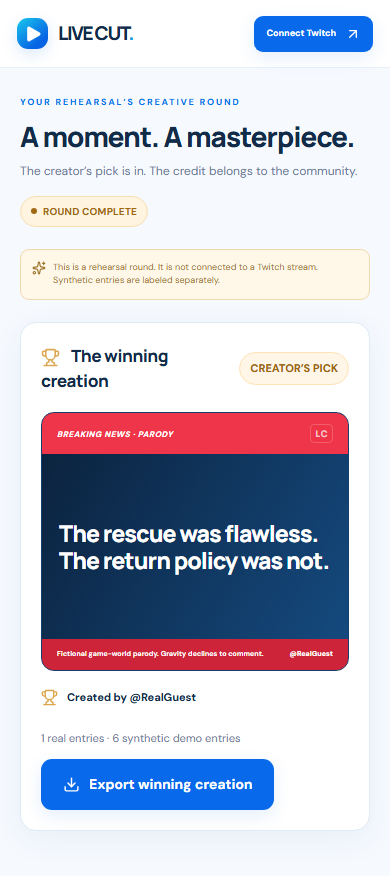
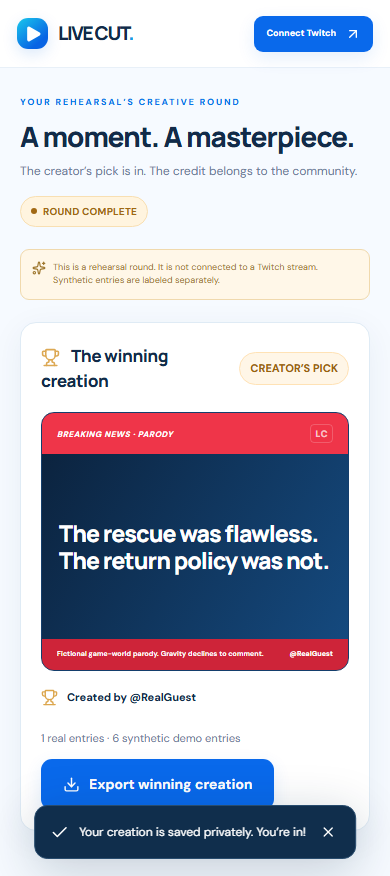
Harden video delivery, privacy, and browser reconnection

Changed region(s): [[0.0615, 0.8938, 0.9231, 1.0]]

diff --git a/tests/e2e/upload.spec.ts b/tests/e2e/upload.spec.ts
@@ -1,0 +1,94 @@
+import { test, expect } from "@playwright/test";
+import fs from "node:fs";
+test("local video upload validates type, persists bytes and serves ranges", async ({
+  page,
+}) => {
+  await page.request.get("/api/me");
+  await page.goto("/");
+  await page.getByRole("button", { name: "Try a rehearsal" }).click();
+  await expect(
+    page.getByRole("heading", { name: "Your show, upgraded." }),
+  ).toBeVisible();
+  const invalid = await page.request.post("/api/upload", {
+    headers: { Origin: "http://localhost:5173", "Content-Type": "video/mp4" },
+    data: Buffer.from("not-a-valid-media-file"),
+  });
+  expect(invalid.status()).toBe(400);
+  const file = ".local/skyfall-gameplay.webm";
+  let bytes: Buffer;
+  if (fs.existsSync(file)) bytes = fs.readFileSync(file);
+  else {
+    await page.goto("/game");
+    await page.locator("canvas").waitFor();
+    const encoded = await page.evaluate(async () => {
+      const stream = document.querySelector("canvas")!.captureStream(20);
+      const recorder = new MediaRecorder(stream, { mimeType: "video/webm" });
+      const parts: Blob[] = [];
+      recorder.ondataavailable = (e) => parts.push(e.data);
+      const done = new Promise<void>((resolve) => {
+        recorder.onstop = () => resolve();
+      });
+      recorder.start();
+      await new Promise((resolve) => setTimeout(resolve, 500));
+      recorder.stop();
+      await done;
+      const buffer = new Uint8Array(await new Blob(parts).arrayBuffer());
+      let text = "";
+      for (let i = 0; i < buffer.length; i += 32768)
+        text += String.fromCharCode(...buffer.subarray(i, i + 32768));
+      stream.getTracks().forEach((t) => t.stop());
+      return btoa(text);
+    });
+    bytes = Buffer.from(encoded, "base64");
+  }
+  const uploaded = await page.request.post("/api/upload", {
+    headers: { Origin: "http://localhost:5173", "Content-Type": "video/webm" },
+    data: bytes,
+  });
+  expect(uploaded.status()).toBe(200);
+  const { url } = await uploaded.json();
+  const downloaded = await page.request.get(url);
+  expect(downloaded.status()).toBe(200);
+  expect(Buffer.compare(await downloaded.body(), bytes)).toBe(0);
+  const range = await page.request.get(url, {
+    headers: { Range: "bytes=0-31" },
+  });
+  expect(range.status()).toBe(206);
+  expect((await range.body()).length).toBe(32);
+  expect(range.headers()["content-range"]).toBe(`bytes 0-31/${bytes.length}`);
+  fs.mkdirSync(".local", { recursive: true });
+  fs.writeFileSync(
+    ".local/upload-evidence.json",
+    JSON.stringify({ url, bytes: bytes.length }),
+  );
+});
+test("a disconnected viewer retains the last state and reconnects", async ({
+  page,
+}) => {
+  await page.request.get("/api/me");
+  await page.goto("/");
+  await page.getByRole("button", { name: "Try a rehearsal" }).click();
+  await page.getByRole("link", { name: "Create your first round" }).click();
+  await page
+    .getByRole("button", { name: "Create round & preview launch" })
+    .click();
+  await expect(
+    page.getByRole("button", { name: "Launch round" }),
+  ).toBeVisible();
+  const id = page.url().split("/").pop()!;
+  await page.goto("/r/" + id);
+  await expect(
+    page.getByRole("heading", { name: "Make this moment unforgettable." }),
+  ).toBeVisible();
+  await page.context().setOffline(true);
+  await expect(page.getByText(/Connection interrupted\./)).toBeVisible({
+    timeout: 10000,
+  });
+  await expect(
+    page.getByRole("heading", { name: "Make this moment unforgettable." }),
+  ).toBeVisible();
+  await page.context().setOffline(false);
+  await expect(page.getByText(/Connection interrupted\./)).toBeHidden({
+    timeout: 10000,
+  });
+});

diff --git a/tests/security.test.ts b/tests/security.test.ts
@@ -174,4 +174,54 @@ describe("Twitch OAuth", () => {
     expect(writes).toHaveLength(2);
     expect(await decrypt(u.access)).toBe("new-access");
   });
+  it("completes OAuth with verified identity and only opaque browser cookies", async () => {
+    const writes: unknown[][] = [];
+    runtime.DB = {
+      prepare: () => ({
+        bind: (...args: unknown[]) => ({
+          run: async () => {
+            writes.push(args);
+            return { success: true };
+          },
+        }),
+      }),
+    };
+    vi.spyOn(globalThis, "fetch")
+      .mockResolvedValueOnce(
+        Response.json({
+          access_token: "callback-access",
+          refresh_token: "callback-refresh",
+          expires_in: 3600,
+        }),
+      )
+      .mockResolvedValueOnce(
+        Response.json({ user_id: "123", client_id: "test-client" }),
+      )
+      .mockResolvedValueOnce(
+        Response.json({
+          data: [
+            {
+              id: "123",
+              login: "verified",
+              display_name: "Verified",
+              profile_image_url: "",
+            },
+          ],
+        }),
+      );
+    const response = await oauthCallback(
+      new Request(
+        "http://localhost:5173/api/auth/twitch/callback?state=expected&code=test-code",
+        { headers: { Cookie: "lc_oauth=expected" } },
+      ),
+    );
+    expect(response.status).toBe(302);
+    expect(response.headers.get("Location")).toBe(
+      "http://localhost:5173/creator",
+    );
+    expect(response.headers.get("Set-Cookie")).toContain("lc_session=");
+    expect(response.headers.get("Set-Cookie")).not.toContain("callback-access");
+    expect(writes).toHaveLength(2);
+    expect(writes[0]).not.toContain("callback-access");
+  });
 });

diff --git a/app/api/[...path]/route.ts b/app/api/[...path]/route.ts
@@ -259,6 +259,7 @@ async function handle(req: Request) {
     headers.set("ETag", object.httpEtag);
     let status = 200;
     if (
+      req.headers.has("Range") &&
       object.range &&
       "offset" in object.range &&
       object.range.offset !== undefined &&
@@ -321,7 +322,16 @@ async function handle(req: Request) {
     const u = await session(req);
     const owner = u?.id === r.creatorId;
     if (method === "GET") {
-      const all = await entryList(r.id);
+      const all = owner
+        ? await entryList(r.id)
+        : (
+            await db()
+              .prepare(
+                "SELECT id,roundId,nickname,mode,headline,detail,status,synthetic,suggested,reason,created FROM entries WHERE roundId=? AND status='approved' AND (id=? OR id=?) ORDER BY created,id",
+              )
+              .bind(r.id, r.revealId, r.winnerId)
+              .all<Entry>()
+          ).results;
       let guest = cookie(req, "lc_guest");
       const headers: Record<string, string> = {};
       if (!guest) {

diff --git a/app/page.tsx b/app/page.tsx
@@ -12,8 +12,10 @@ import {
 } from "lucide-react";
 import { Nav, Brand, api, notify, Toasts } from "@/components/common";
 import { flagshipIds, getPreset } from "@/lib/presets";
-import { useState } from "react";
+import { useEffect, useState } from "react";
 export default function Home() {
+  const [ready, setReady] = useState(false);
+  useEffect(() => setReady(true), []);
   const [busy, setBusy] = useState(false);
   async function rehearse() {
     setBusy(true);
@@ -54,7 +56,7 @@ export default function Home() {
               <button
                 className="button secondary"
                 onClick={rehearse}
-                disabled={busy}
+                disabled={busy || !ready}
               >
                 <Play size={16} />
                 {busy ? "Opening studio…" : "Try a rehearsal"}

diff --git a/vite.config.ts b/vite.config.ts
@@ -48,9 +48,17 @@ export default defineConfig(async ({ command }) => {
       ...(managedLinux
         ? { host: "0.0.0.0", allowedHosts: ["terminal.local"] }
         : {}),
-      ...(isCodexSeatbeltSandbox
-        ? { watch: { useFsEvents: false, usePolling: true } }
-        : {}),
+      watch: {
+        ignored: [
+          "**/outputs/**",
+          "**/.local/**",
+          "**/test-results/**",
+          "**/playwright-report/**",
+        ],
+        ...(isCodexSeatbeltSandbox
+          ? { useFsEvents: false, usePolling: true }
+          : {}),
+      },
     },
     plugins: [
       vinext(),

diff --git a/app/globals.css b/app/globals.css
@@ -4441,3 +4441,18 @@ input[type="checkbox"] {
     display: none;
   }
 }
+.moment {
+  container-type: inline-size;
+}
+@container (max-width: 399px) {
+  .twitch-player {
+    display: none;
+  }
+  .twitch-mobile {
+    display: flex;
+    position: absolute;
+    inset: 30% 12px;
+    white-space: normal;
+    font-size: 11px;
+  }
+}

diff --git a/tests/e2e/journey.spec.ts b/tests/e2e/journey.spec.ts
@@ -7,6 +7,7 @@ test("a private viewer creation reaches the approved overlay, winner and real PN
   page,
   browser,
 }) => {
+  await page.request.get("/api/me");
   await page.goto("/");
   await page.getByRole("button", { name: "Try a rehearsal" }).click();
   await expect(

diff --git a/README.md b/README.md
@@ -129,7 +129,7 @@ npm run test:e2e
 npm run build
 ```
 
-Tests cover preset/schema validity; hostile and oversized input; duplicate normalization; deterministic diversity; round transition rules; AES-GCM integrity; HTTP-only cookies; origin checks; OAuth state, denial, revocation and token refresh; and the browser guest-to-export journey. Browser tests use separate creator/guest sessions, verify private entries remain hidden after approval until reveal, check unauthorized mutations, pause/resume, PNG downloads, and responsive widths. OAuth provider responses are mocked in unit tests. Real Twitch authorization, clip creation, streaming, Gemini inference and physical OBS capture require separate live evidence.
+Tests cover preset/schema validity; hostile and oversized input; duplicate normalization; deterministic diversity; round transition rules; AES-GCM integrity; HTTP-only cookies; origin checks; OAuth success, state, denial, revocation and token refresh; and Gemini failures, invalid outputs and safe finalist selection. Browser tests use separate creator/guest sessions, verify private entries remain hidden after approval until reveal, check unauthorized mutations, pause/resume, PNG downloads, genuine WebM uploads, byte-range playback, offline reconnects, and responsive widths. OAuth and Gemini provider responses are mocked in unit tests. Real Twitch authorization, clip creation, streaming, Gemini inference and physical OBS capture require separate live evidence.
 
 ## Codex and hackathon
 
